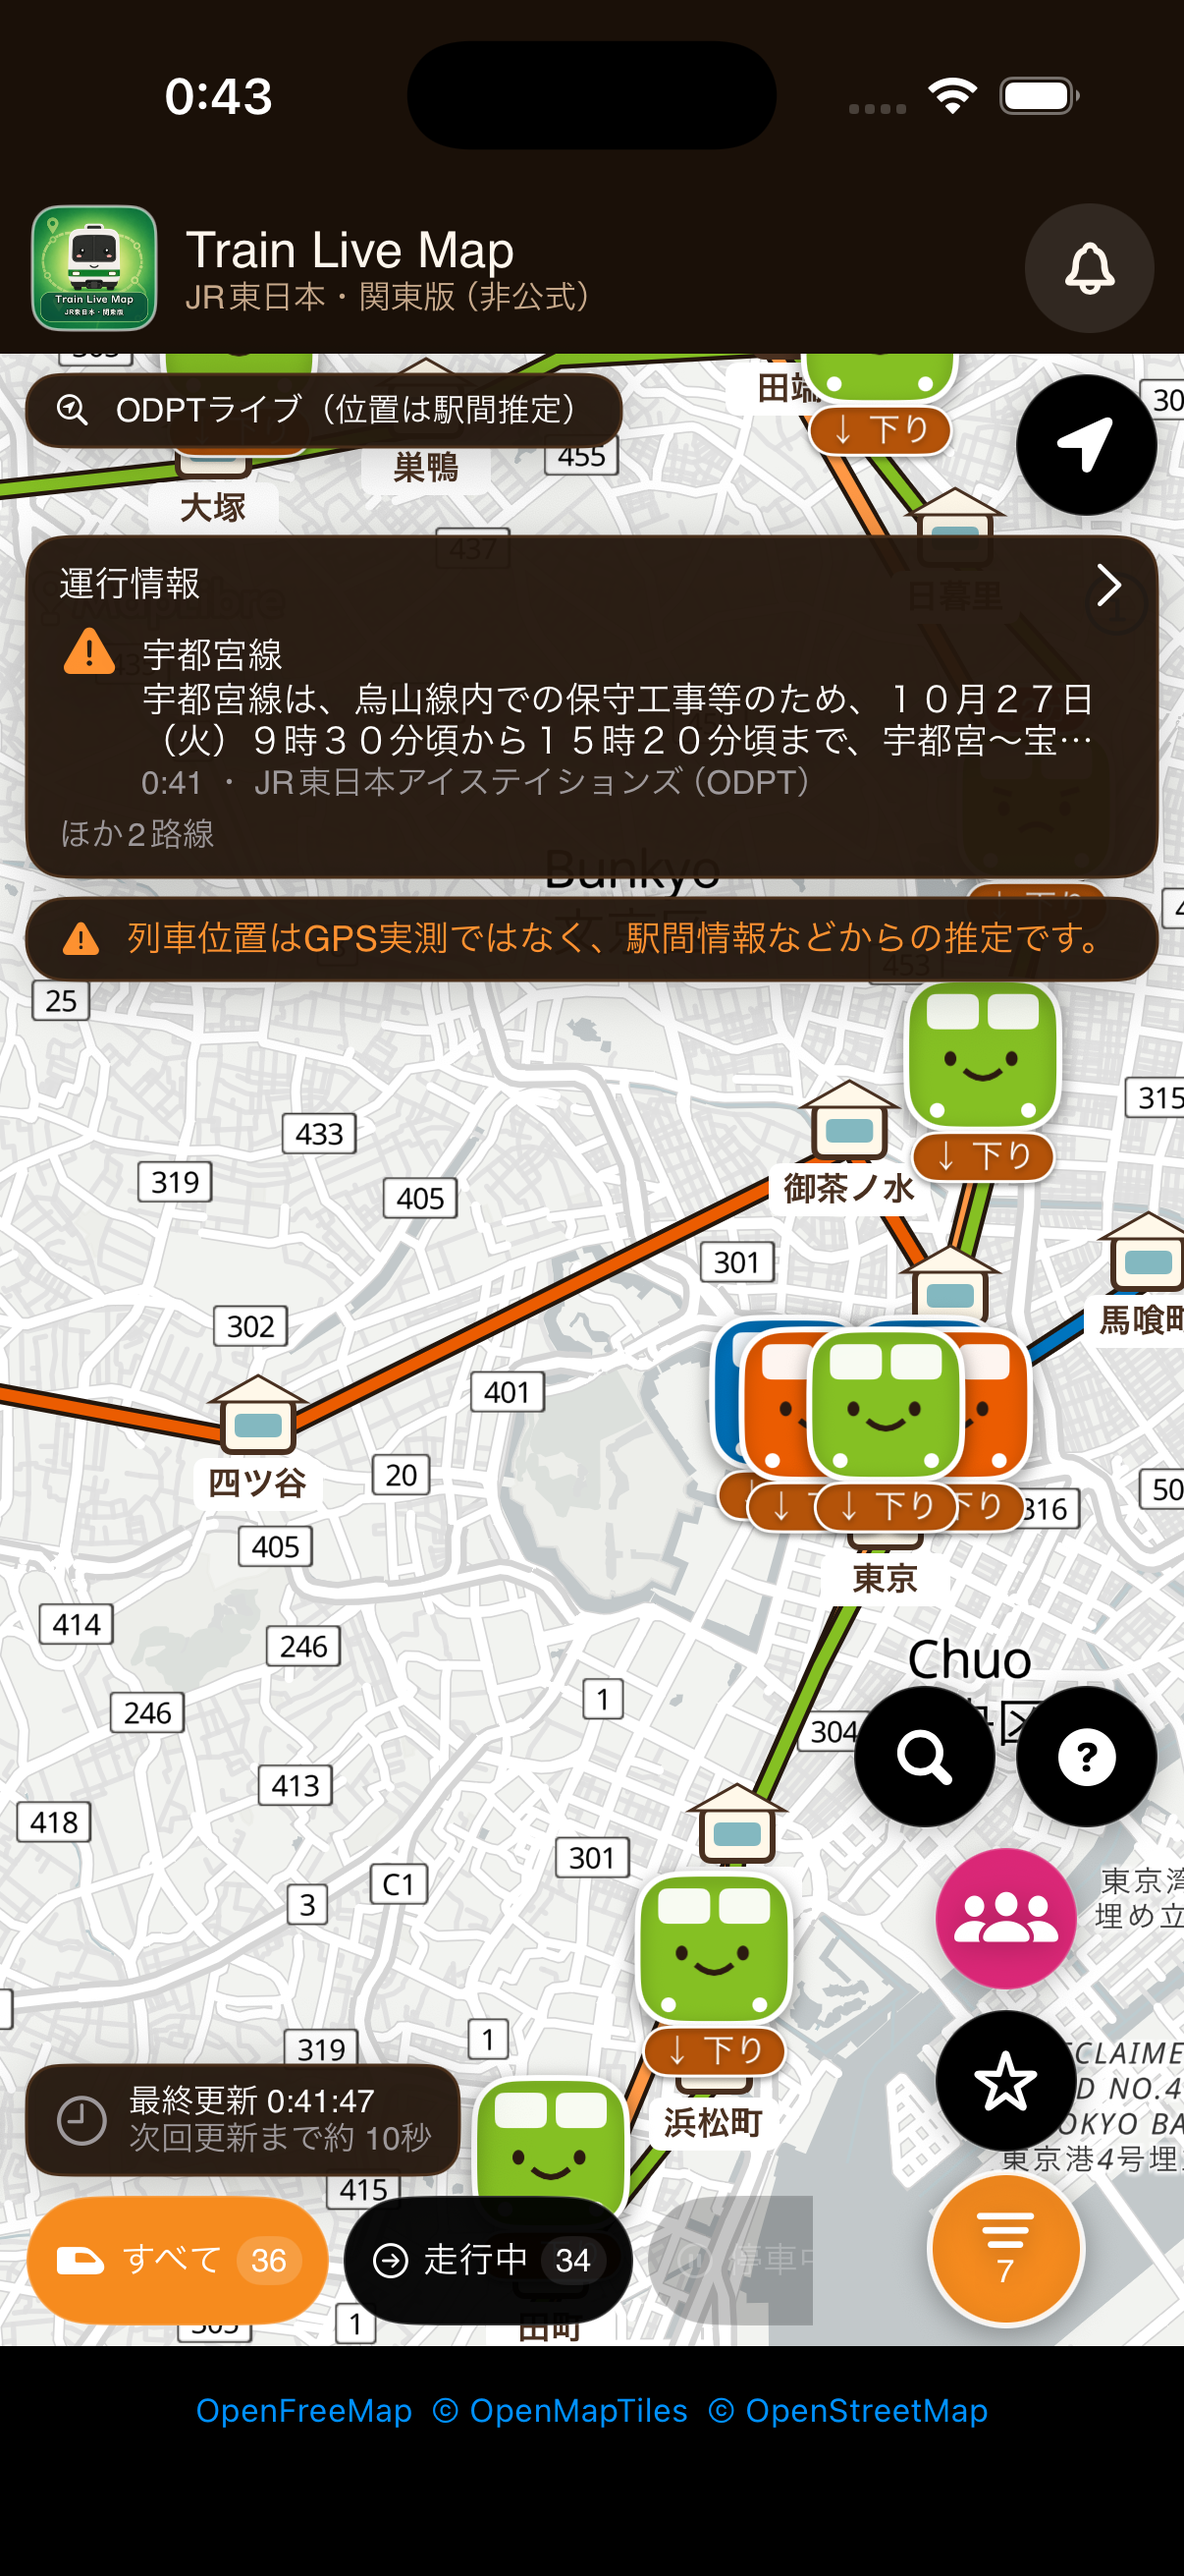
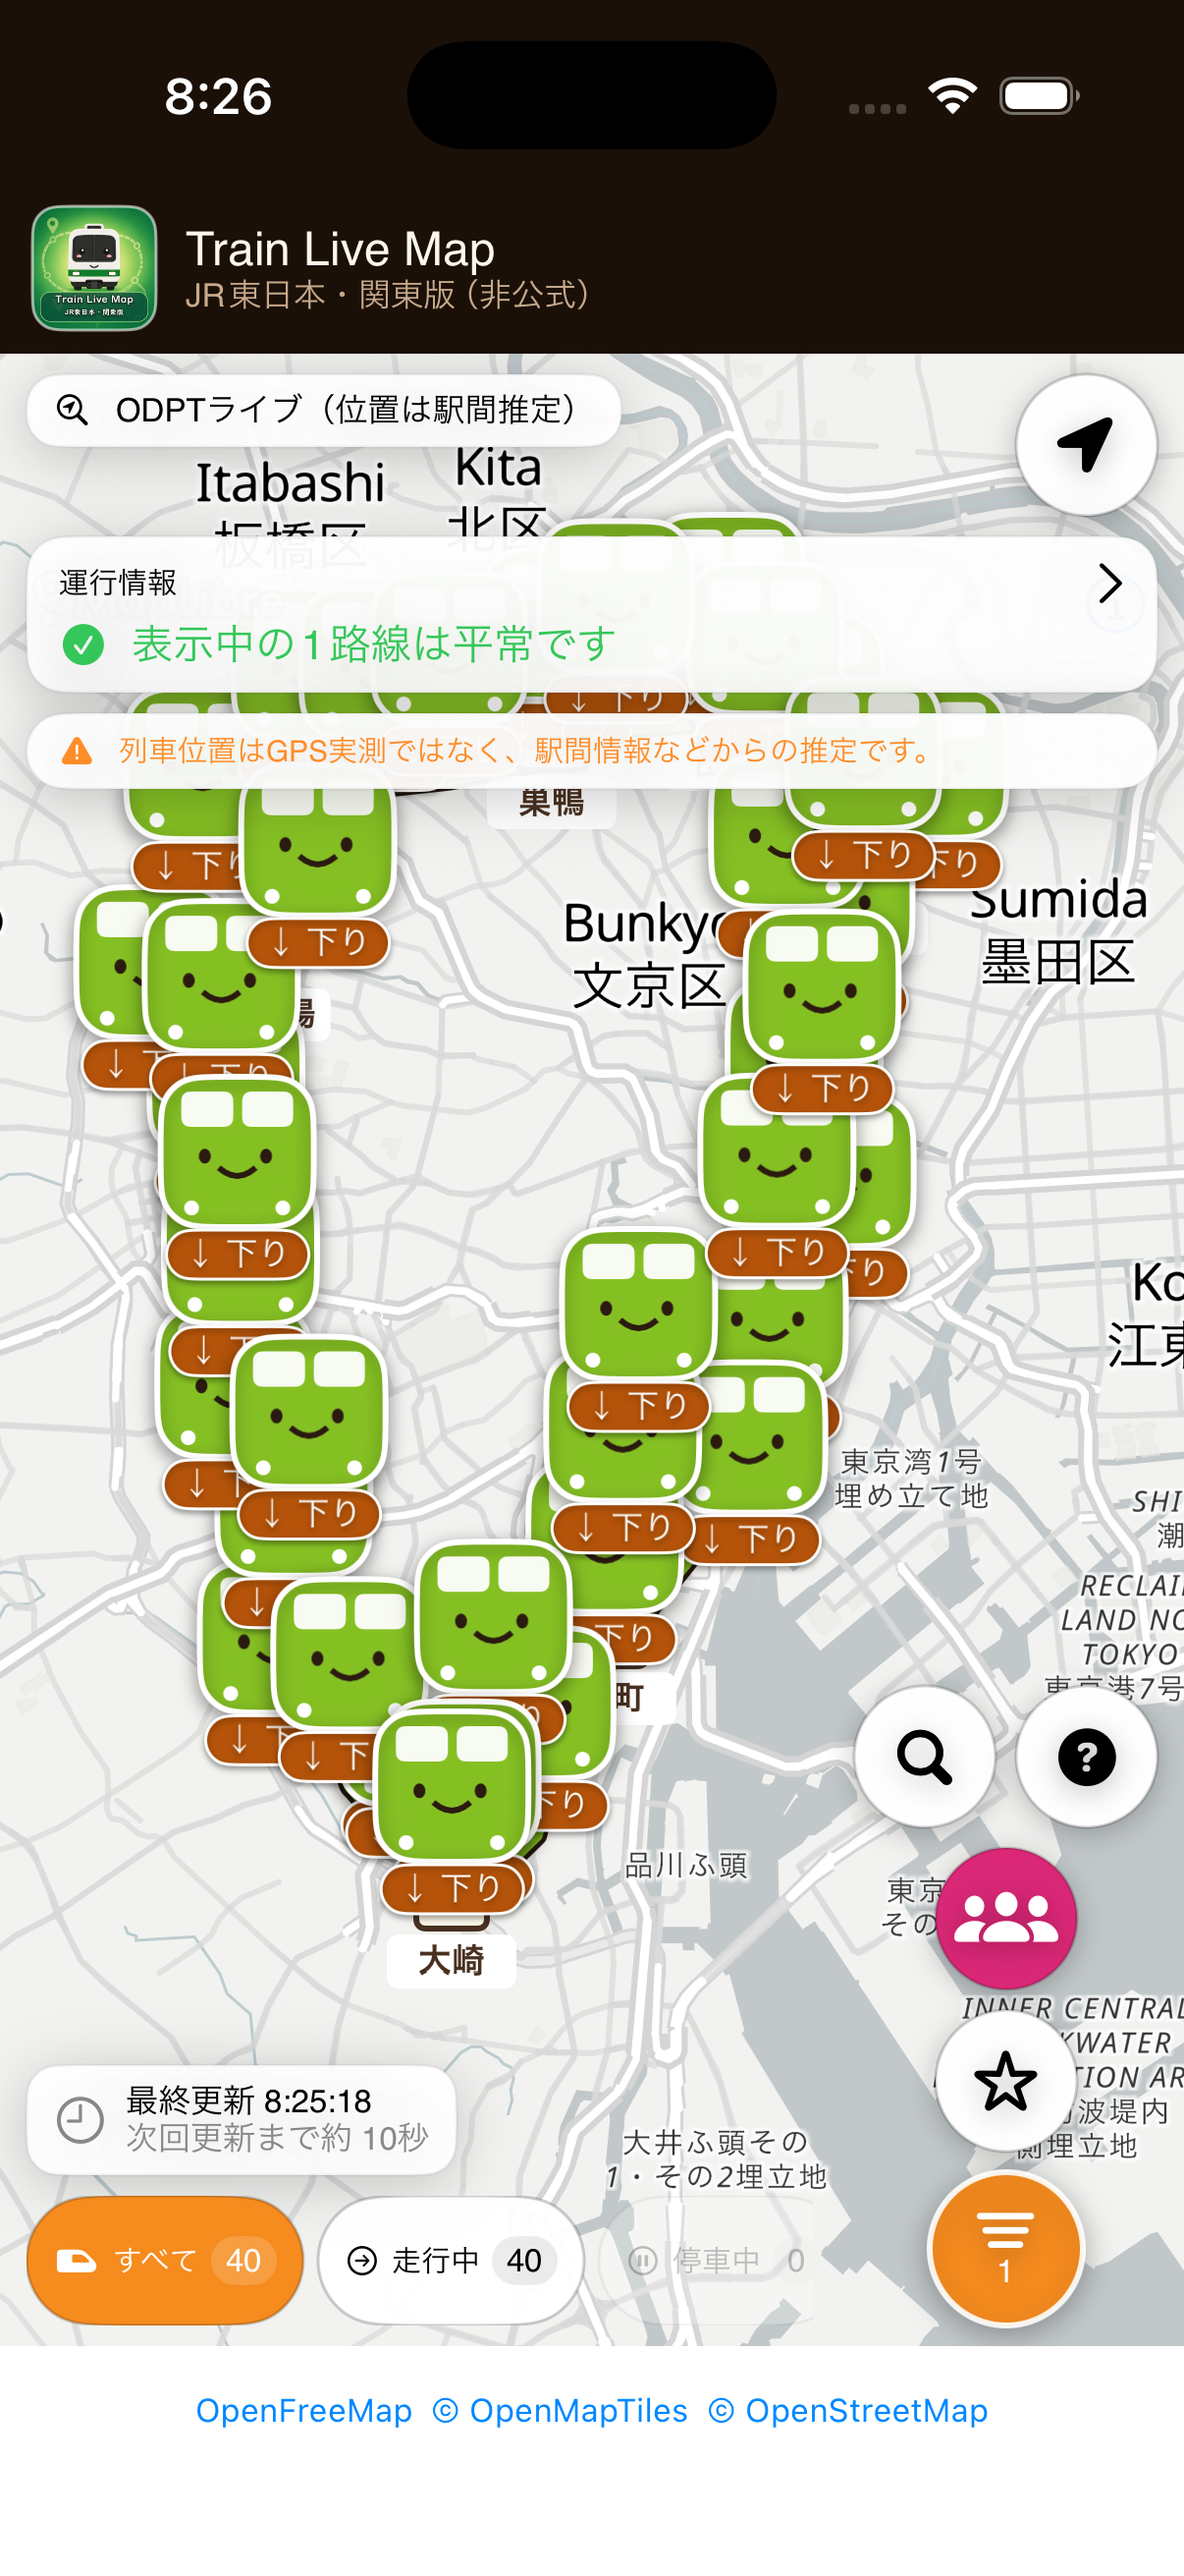
Prepare build 4 for initial release without push notifications

diff --git a/TrainLiveMapUITests/TrainLiveMapUITests.swift b/TrainLiveMapUITests/TrainLiveMapUITests.swift
@@ -14,7 +14,7 @@ final class TrainLiveMapUITests: XCTestCase {
             app.descendants(matching: .any)["data-source-badge"]
                 .waitForExistence(timeout: 5)
         )
-        XCTAssertTrue(app.buttons["notification-settings-button"].exists)
+        XCTAssertFalse(app.buttons["notification-settings-button"].exists)
         XCTAssertTrue(app.buttons["community-report-button"].exists)
         XCTAssertTrue(app.buttons["railway-filter-button"].exists)
         XCTAssertTrue(app.buttons["current-location-button"].exists)
@@ -96,7 +96,7 @@ final class TrainLiveMapUITests: XCTestCase {
         app.buttons["みんなの運行情報を閉じる"].tap()
     }
 
-    func testLargeDynamicTypeDarkModeAndNotificationExplanation() {
+    func testLargeDynamicTypeDarkModeAndPrivacyExplanation() {
         let app = makeApp()
         app.launchArguments += [
             "-AppleInterfaceStyle", "Dark",
@@ -106,31 +106,15 @@ final class TrainLiveMapUITests: XCTestCase {
         app.launch()
 
         XCTAssertTrue(app.staticTexts["Train Live Map"].waitForExistence(timeout: 8))
-        let notificationButton = app.buttons["notification-settings-button"]
-        XCTAssertTrue(notificationButton.waitForExistence(timeout: 5))
-        notificationButton.tap()
+        XCTAssertFalse(app.buttons["notification-settings-button"].exists)
+        app.buttons["このアプリについて"].tap()
+        XCTAssertTrue(app.navigationBars["このアプリについて"].waitForExistence(timeout: 8))
+        XCTAssertTrue(app.staticTexts["JR東日本・関東版（非公式）"].exists)
+        let privacy = app.staticTexts["プライバシー"]
+        let list = app.collectionViews.firstMatch
+        for _ in 0..<4 where !privacy.isHittable { list.swipeUp() }
+        XCTAssertTrue(privacy.exists)
 
-        let notificationNavigationBar = app.navigationBars["運行情報の通知"]
-        if !notificationNavigationBar.waitForExistence(timeout: 5),
-           notificationButton.isHittable {
-            notificationButton.tap()
-        }
-        XCTAssertTrue(
-            notificationNavigationBar.waitForExistence(timeout: 8)
-        )
-        XCTAssertTrue(
-            app.staticTexts["お気に入り路線の変化をお知らせ"].exists
-        )
-        XCTAssertTrue(
-            app.staticTexts
-                .matching(
-                    NSPredicate(
-                        format: "label CONTAINS '利用者からの報告'"
-                    )
-                )
-                .firstMatch
-                .exists
-        )
     }
 
     func testTrainNumberSearchLegendDetailAndDisabledFilters() {
@@ -254,7 +238,7 @@ final class TrainLiveMapUITests: XCTestCase {
         XCUIDevice.shared.press(.home)
         app.activate()
         XCTAssertTrue(liveBadge.waitForExistence(timeout: 15))
-        XCTAssertTrue(app.buttons["notification-settings-button"].exists)
+        XCTAssertFalse(app.buttons["notification-settings-button"].exists)
         let resumedImage = XCTAttachment(screenshot: app.screenshot())
         resumedImage.name = "Live map after foreground recovery"
         resumedImage.lifetime = .keepAlways

diff --git a/TrainLiveMap/Features/Main/MainView.swift b/TrainLiveMap/Features/Main/MainView.swift
@@ -399,22 +399,24 @@ struct MainView: View {
 
             Spacer(minLength: 2)
 
-            Button {
-                notificationSheetPresented = true
-            } label: {
-                Image(
-                    systemName: notificationManager.state == .authorized
-                        ? "bell.fill"
-                        : "bell"
-                )
-                .font(.system(size: 17, weight: .bold))
-                .frame(width: 44, height: 44)
-                .foregroundStyle(RailTheme.cream)
-                .background(.white.opacity(0.1), in: Circle())
+            if AppConfiguration.current.apnsRegistrationURL != nil {
+                Button {
+                    notificationSheetPresented = true
+                } label: {
+                    Image(
+                        systemName: notificationManager.state == .authorized
+                            ? "bell.fill"
+                            : "bell"
+                    )
+                    .font(.system(size: 17, weight: .bold))
+                    .frame(width: 44, height: 44)
+                    .foregroundStyle(RailTheme.cream)
+                    .background(.white.opacity(0.1), in: Circle())
+                }
+                .buttonStyle(.plain)
+                .accessibilityLabel("運行情報の通知設定")
+                .accessibilityIdentifier("notification-settings-button")
             }
-            .buttonStyle(.plain)
-            .accessibilityLabel("運行情報の通知設定")
-            .accessibilityIdentifier("notification-settings-button")
 
 
         }

diff --git a/TrainLiveMap/Features/About/AboutSheet.swift b/TrainLiveMap/Features/About/AboutSheet.swift
@@ -51,18 +51,12 @@ struct AboutSheet: View {
                     .font(RailFont.regular(.footnote))
                 }
 
-                Section("プライバシーと通知") {
+                Section("プライバシー") {
                     Label(
-                        "通知配信に使用するAPNs端末トークンと購読路線は、配信サーバーで最終更新から最大180日間保持されます。",
+                        "利用者投稿には、端末内で作成した匿名の識別子を使用します。投稿と識別子は不正投稿の防止に使用します。",
                         systemImage: "hand.raised.fill"
                     )
                     .font(RailFont.regular(.footnote))
-                    Text(
-                        "通知登録の解除時にはサーバーへ購読情報の削除を要求します。"
-                            + "APNs端末トークンはブラウザ用Web Push購読APIへ送信しません。"
-                    )
-                    .font(RailFont.regular(.caption))
-                    .foregroundStyle(.secondary)
                     Text(
                         "端末の現在地は、現在地ボタンをタップした後に許可された場合だけ取得し、"
                             + "地図を現在地付近へ移動するために使用します。位置情報はサーバーへ送信せず、端末にも保存しません。"

diff --git a/TrainLiveMap/Features/Notifications/NotificationManager.swift b/TrainLiveMap/Features/Notifications/NotificationManager.swift
@@ -85,6 +85,7 @@ final class NotificationManager: NSObject, ObservableObject {
     }
 
     func requestAuthorization() async {
+        guard backendConfigured else { return }
         registrationError = nil
         do {
             _ = try await UNUserNotificationCenter.current()

diff --git a/HANDOFF.md b/HANDOFF.md
@@ -1,6 +1,6 @@
 # Train Live Map iOS 引き継ぎ
 
-更新日: 2026-10-27。1.1.0(3)の署名付きProduction Archive・IPA作成とアップロードが完了。TestFlightで「提出準備完了」を確認し、App Store版1.1.0へ関連付け済みです。審査提出・公開は未実施です。
+更新日: 2026-10-28。初回Pushなしの1.1.0(4)は自動テスト95件成功、署名付きProduction Archive・IPA作成・アップロード完了。Transporterで「内部テストの準備ができています」を確認しました。提出版はまだビルド3に関連付いており、ビルド4への差し替え作業中です。審査提出・公開は未実施です。
 
 ## リポジトリと環境
 
@@ -12,7 +12,7 @@
 - SwiftUI、MVVM、Repository、async/await、MapLibre Native 6.28.0、SPM
 - プロジェクト正本: `project.yml`。生成済み `TrainLiveMap.xcodeproj` を同梱
 - 確定Bundle ID: `com.shunsoco.trainlivemap`
-- Version 1.1.0、Build 3。Developer Teamは確認済みのLC47V8NZP6
+- Version 1.1.0、Build 4。Developer Teamは確認済みのLC47V8NZP6
 
 ## 実装
 
@@ -26,7 +26,7 @@
 
 利用者投稿には平常・遅れ・大幅遅延・見合わせ・再開を用意。再開は既存APIのon-time票に任意のeventを追加する互換方式です。投稿は公式情報と分け、匿名のランダム識別子をKeychainへ保存して送信します。サーバーと端末の両方で連続投稿を制限します。
 
-通知設定は有効化、対象路線、公式のみ／利用者報告も含む、見合わせ・再開・遅延を保存。ユーザー操作後だけ権限を要求します。APNsクライアントは所有秘密値をKeychainに保持して登録・解除し、設定更新を直列化します。
+所有者の選択により初回はPush通知なし。通知ボタンを非表示にし、通知権限要求・APNs端末登録を行いません。通知設定・登録解除・Keychainの実装は将来用に保持します。APNS_REGISTRATION_URLは空、サーバーの配信ゲートはfalseです。
 
 広告SDKと広告ID・SKAdNetwork設定は除去済み。ATT・広告配信・解析SDKはありません。位置情報はボタン操作後の使用中許可のみで、アプリのサーバーへ送信しません。
 
@@ -36,7 +36,7 @@
 
 Web側の別変更で `/api/apns/devices`（POST/DELETE）と `/api/apns/dispatch`（認証付きGET）を追加。AES-256-GCM、所有者ハッシュ、Redisの原子的更新・回数制限、180日失効、無効トークン削除、状態変化・利用者報告急増の判定を実装しました。詳細はWebの `docs/native-apns.md`。
 
-本番Vercelの環境変数名を確認したところAPNs設定は未提供でした。APNS_REGISTRATION_URLは空のままで、配信は既定で無効です。APNs専用鍵2個は所有者の明示承認後に作成済み。Vercelへの保存は2FA入力障害の解消待ち。本番Push送信・本番データ削除はしていません。
+本番Vercelの環境変数名を確認したところAPNs設定は未提供でした。APNS_REGISTRATION_URLは空のままで、配信は既定で無効です。APNs専用鍵2個は所有者の明示承認後に作成済み。VercelへのSecret保存は完了。初回公開は所有者指定でPush通知なし。本番Push送信・本番データ削除はしていません。
 
 ## 環境の切替
 
@@ -69,7 +69,7 @@ Development、Staging、Productionのxcconfigを用意。DebugはDevelopment、R
 
 1. 接続iPhoneで地図、権限、復帰、通信切替、VoiceOver、メモリ・バッテリーを検証
 2. 作成済みAPNs鍵をVercel Secretへ保存し、環境変数・定期実行環境を設定して開発用端末で登録、受信、解除を検証。本番通知送信は別途確認対象
-3. プライバシー申告をホスティング実設定と照合して確定。Vercel接続ツールはプロジェクト参照不可、Chromeログイン待ち
+3. プライバシー申告をホスティング実設定と照合して確定。Vercel接続ツールはプロジェクト参照不可。Chromeログイン後にHobby・ログ保存・Drains未設定を確認
 4. App Store Connectの画像、プライバシー公開、配信対象プラットフォームの最終確認
 5. 所有者の確認後に審査提出し、Apple承認後に公開。審査提出・公開は未承認
 
@@ -124,3 +124,24 @@ Apple DeveloperにApp ID com.shunsoco.trainlivemapを登録済み（Push Notific
 - 鍵の識別情報とローカル保存先は、Git外の `/Users/kinjo/Documents/Codex/SecureCredentials/TrainLiveMap/APNs/manifest.json` に保存。Vercelへの登録は未実施。
 - Vercelの2FA入力障害を調査。入力欄は有効でフォーカスあり。英数／貼り付けとデバッグ解除でも解消せず、通常ログイン画面から開き直して再試行を所有者へ依頼中。2FA解除・認証回避はしていない。
 - APNS_REGISTRATION_URLと通知送信ゲートは引き続き無効。Sandbox／Productionへの実送信は未実施。
+
+## 2026-10-27 初回公開の通知スコープ変更
+
+- 所有者が「初回はPush通知なしで公開を優先する」を選択。通知ボタンを未設定時に非表示にし、権限要求も登録先がない場合は行わない。APNsの実装は将来用に残し、初回の完了条件から通知の実受信・定期配信を外す。現在の公開候補は1.1.0(4)、ビルド3は既にTestFlightへアップロード済み。
+- APNs鍵2個をVercelプロジェクトtrain-live-mapのProduction限定Secretとして保存。Team・Bundle ID・環境別Key IDをConfig保存。APNS_DELIVERY_ENABLEDとAPNS_PRODUCTION_DELIVERY_APPROVEDはfalse。再デプロイは未実施、通知は送信していない。
+- 追加で所有者承認されたAPNS_STORAGE_KEYとCRON_SECRETを256ビット乱数で作成し、Git外の保護フォルダーとVercelのProduction Secretへ保存。秘密値はチャット・Gitへ含めない。定期実行は設定しない。
+- Vercel Hobbyは定期実行1日1回まで。通知延期により有料契約も外部scheduler契約も不要。既存Upstash Redis設定あり。
+- Vercelの実ログでiOS User-Agent・APIパス・HTTP状態・処理時間・メモリ利用を確認。Web Analytics未有効、Drains未設定。Performance DataとOther Diagnostic Dataの申告案を追加し、PrivacyInfo.xcprivacyにも反映。Appleの申告画面は更新・公開前。
+- ビルド4はテスト・Archive・スクリーンショット更新・TestFlight再アップロードが必要。審査提出と公開の承認はまだ取得していない。
+
+## Build 4 verification (2026-10-28)
+
+- XCTest: 89 unit tests + 6 UI tests passed; 0 failed, 1 opt-in hardware test skipped. Result: /private/tmp/TrainLiveMapBuild4Tests20261027.xcresult.
+- Signed Release Archive and IPA exported successfully with existing signing assets. Deep signature verification passed. Artifacts/20261027/TrainLiveMap-1.1.0-4.xcarchive and TrainLiveMap-1.1.0-4.ipa are excluded from Git.
+- Transporter delivered build 4 on 2026-10-27 08:25 JST. Ready for internal testing was confirmed on October 28.
+- Archive has an empty APNSRegistrationURL, no .p8 files, and all four privacy data declarations.
+- App Store review notes now describe the initial release without Push. All four privacy categories are saved as App Functionality / Linked Yes / Tracking No; not yet published.
+- Build 4 screenshots for iPhone 6.3-inch, iPhone 6.9-inch and iPad 13-inch show live production data. Upload replacement is pending.
+- Web PR #10 updates initial-release support/privacy text and reflects verified Vercel diagnostics. TypeScript, scoped ESLint and Vercel checks passed. https://github.com/shunsoco-stack/train-live-map/pull/10 remains unmerged.
+- Hardware live-backend UI verification passed on build 3. Build 4 hardware retesting, VoiceOver speech and long-duration battery/memory measurements have not been completed.
+- Remaining publication gates: replace the store build/screenshots, merge Web PR #10 after approval, publish privacy answers, submit review and release after Apple approval. Review submission and publication still require the owner's final approval.
